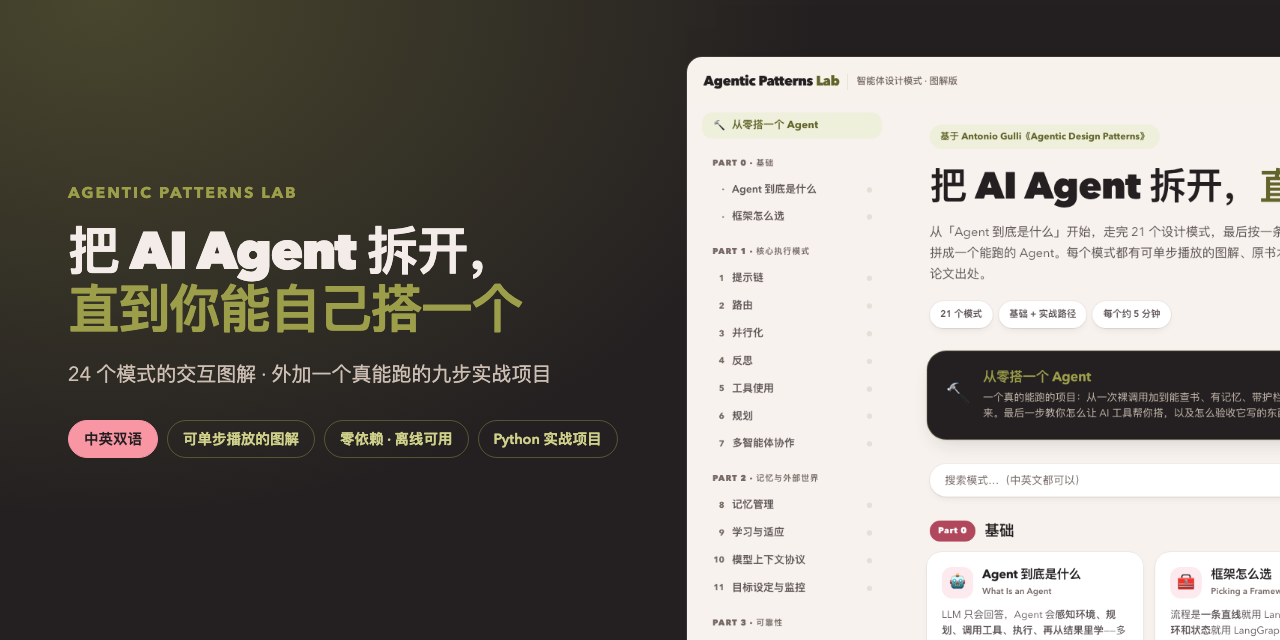
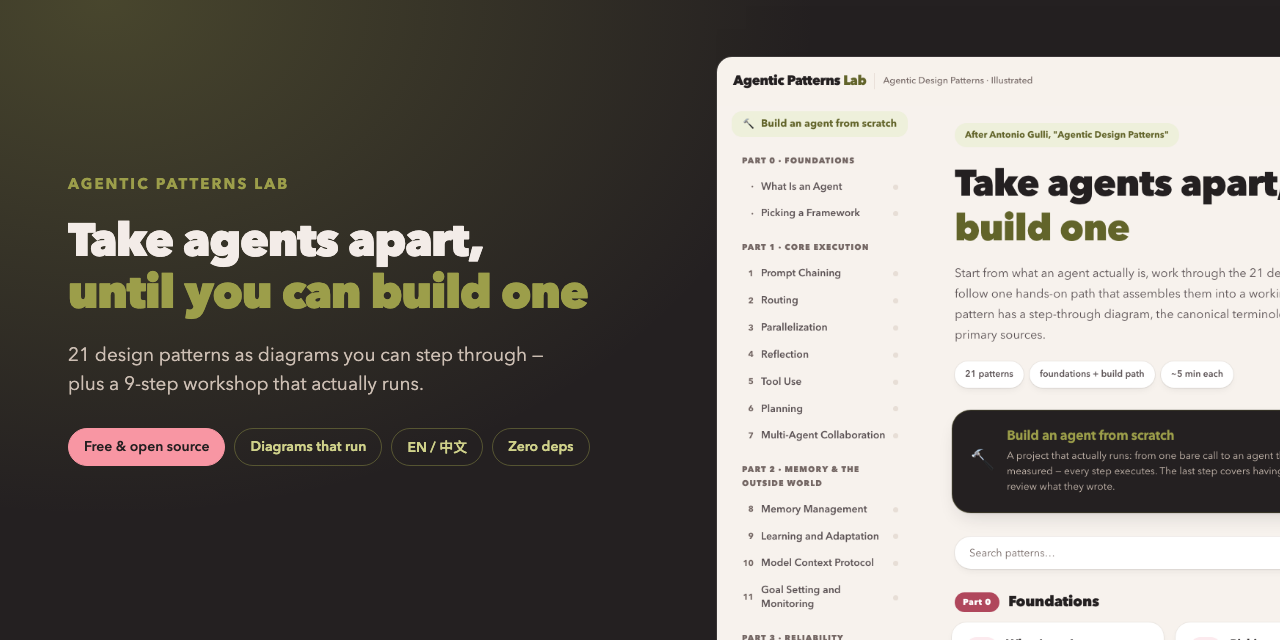
Add English screenshots and social preview
The English README was illustrated with screenshots of the Chinese UI,
which quietly undercut the claim that the app is bilingual.
docs/screenshots/en/ now holds English captures; the Chinese set stays at
the original path.

social-preview.png is now English; the Chinese card is kept as
social-preview.zh-CN.png.

diff --git a/README.md b/README.md
@@ -3,7 +3,7 @@
 </p>
 
 <p align="center">
-  <img src="docs/screenshots/01-home.png" alt="Agentic Patterns Lab" width="880">
+  <img src="docs/screenshots/en/01-home.png" alt="Agentic Patterns Lab" width="880">
 </p>
 
 <h1 align="center">Agentic Patterns Lab</h1>
@@ -165,24 +165,24 @@ Stated plainly, because it tells you what to suspect first when something breaks
 <table>
 <tr>
 <td width="50%">
-<img src="docs/screenshots/02-diagram.png" alt="Step-through diagram"><br>
+<img src="docs/screenshots/en/02-diagram.png" alt="Step-through diagram"><br>
 <strong>Diagrams you can step through</strong><br>
 A token travels the edges while the caption below explains that step. Play it, or walk it yourself.
 </td>
 <td width="50%">
-<img src="docs/screenshots/03-build.png" alt="Build path"><br>
+<img src="docs/screenshots/en/03-build.png" alt="Build path"><br>
 <strong>The build path points at real files</strong><br>
 Each step names the file, the command, the output to expect, and the trap waiting for you.
 </td>
 </tr>
 <tr>
 <td width="50%">
-<img src="docs/screenshots/04-dark.png" alt="Dark mode"><br>
+<img src="docs/screenshots/en/04-dark.png" alt="Dark mode"><br>
 <strong>Both themes, contrast-checked</strong><br>
 Follows your system, switchable by hand. Body text meets WCAG AA in both.
 </td>
 <td width="50%" align="center">
-<img src="docs/screenshots/05-mobile.png" alt="Mobile" width="300"><br>
+<img src="docs/screenshots/en/05-mobile.png" alt="Mobile" width="300"><br>
 <strong>Readable on a phone</strong><br>
 Diagrams scroll horizontally inside their own container; the page never does.
 </td>
@@ -213,7 +213,7 @@ Diagrams scroll horizontally inside their own container; the page never does.
 │   ├── step0..step8_*.py
 │   └── data/                   #   generated by step0, gitignored
 │
-└── docs/screenshots/
+└── docs/screenshots/en/
 ```
 
 ---
